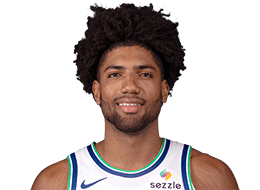
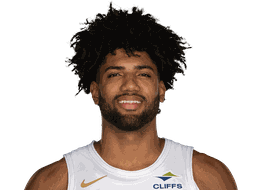
Norchad Omier: restore the Cavs headshot and use it everywhere (player page, depth chart, game cards, search); the data job's retry no longer overwrites newer photos
Claude-Session: https://claude.ai/code/session_01Uep7ns5T3up5s8U8S8Tshg

Changed region(s): [[0.0923, 0.0, 0.9231, 1.0], [0.6154, 0.2368, 0.6462, 0.2632]]

diff --git a/index.html b/index.html
@@ -2,7 +2,8 @@
 <html lang="en">
 <head>
 <meta charset="utf-8">
-<script>/* Nov 22 (Luka): if a page breaks in a visitor's browser, tell us (the Worker sends one phone alert per error per day) */
+<script>/* Nov 23 (Luka): players whose NBA.com photo is out of date use the site's own copy everywhere (Omier's Cavs headshot) */window.nbaHS=function(id,big){return ['1641807'].indexOf(String(id))>=0?'/img/h/'+id+'.png':'https://cdn.nba.com/headshots/nba/latest/'+(big?'1040x760':'260x190')+'/'+id+'.png'};
+/* Nov 22 (Luka): if a page breaks in a visitor's browser, tell us (the Worker sends one phone alert per error per day) */
 (function(){if(!/(^|\.)cavsdatabase\.com$/.test(location.hostname))return;var n=0;function send(m,w){try{if(n++>2||!m)return;var b=JSON.stringify({m:String(m).slice(0,300),w:String(w||'').slice(0,300),p:location.href.slice(0,300),ua:navigator.userAgent.slice(0,200)});if(navigator.sendBeacon)navigator.sendBeacon('/err',new Blob([b],{type:'application/json'}));else fetch('/err',{method:'POST',body:b,keepalive:true})}catch(e){}}
 addEventListener('error',function(e){if(!e||!e.message)return;var f=e.filename||'';if(f&&!/cavsdatabase\.com/.test(f))return;send(e.message,f.replace(/^https?:\/\/[^/]+/,'')+':'+(e.lineno||0)+':'+(e.colno||0))});
 addEventListener('unhandledrejection',function(e){var r=e&&e.reason;if(!r||!r.stack||!/cavsdatabase\.com/.test(r.stack))return;send((r.name||'Error')+': '+(r.message||r),String(r.stack).split('\n')[1]||'')})
@@ -3349,7 +3350,7 @@ onView('schedule',()=>{while(mk<SCHED_MARKS.length){tb.appendChild(markRow(short
 
 /* staff page — [name, title, first season] */
 /* staff — [name, title, first season in current role, NBA.com headshot id or image url] */
-const HS=id=>typeof id==='number'?'https://cdn.nba.com/headshots/nba/latest/260x190/'+id+'.png':id;
+const HS=id=>typeof id==='number'?nbaHS(id):id;
 const STAFF=[
   ['Ownership & leadership',[['Dan Gilbert','Chairman','2004–05','/img/s/dan-gilbert.jpg'],['Nic Barlage','CEO, Cavaliers and Rock Entertainment Group','2021–22','https://cdn.nba.com/teams/uploads/sites/1610612739/2024/11/nic-barlage-headshot_500x500-1.jpg'],['Nate Forbes','Vice Chairman','2004–05','/img/s/nate-forbes.jpg'],['Jeff Cohen','Minority Owner','2004–05','/img/s/jeff-cohen.jpg'],['Grant Gilbert','VP, Basketball and Business Operations · Alternate Governor','2024–25','/img/s/grant-gilbert.jpg']]],
   ['Front office',[['Brandon Weems','General Manager','2026–27','/img/s/brandon-weems.jpg'],['Jon Nichols','Associate General Manager','2026–27','/img/s/jon-nichols.jpg'],['Brendon Yu','Assistant General Manager','2026–27','/img/s/brendon-yu.jpg'],['José Calderón','Assistant General Manager','2026–27','/img/s/jose-calderon.jpg'],['Jason Hillman','VP, Basketball Operations / Team Counsel','2021–22','/img/s/jason-hillman.jpg'],['Dashiell Flynn','Chief Technology Officer, Basketball Operations','2026–27','/img/s/dashiell-flynn.jpg'],['Max Weisberg','Sr. Director of Basketball Strategy / Assistant GM, Charge','2025–26','/img/s/max-weisberg.jpg'],['Rishi Chandran','Basketball Operations Analyst','2024–25','/img/s/rishi-chandran.jpg'],['Corey Jones','Research and Development','2026–27','/img/s/corey-jones.jpg'],['Mark Cashman','Director of Team Operations','2011–12'],['Zydrunas Ilgauskas','Special Assistant to the GM','2013–14','/img/s/zydrunas-ilgauskas.jpg'],['Anderson Varejão','Player Development Consultant and Global Ambassador','2022–23','/img/s/anderson-varejao.jpg']]],
@@ -3585,7 +3586,7 @@ function fitLogo(img){/* Nov 4: sizing now comes from the site-wide logo scale (
     /* box score = our live game page for that game (ESPN game id looked up by date) */
     {const bl=c.querySelector('.gdm-k a');bl.removeAttribute('target');bl.removeAttribute('rel');bl.classList.add('gdm-bsl');cavsLive(g[0]).then(L=>{if(L&&L.id)c.querySelectorAll('a.gdm-bsl').forEach(x=>x.href='/live.html?g='+L.id)}).catch(()=>{})}
     const sb=el('div','gdm-sb');sb.append(el('span','tm c','CAVS'),el('span','gdm-tl',String(cs)),el('span','gdm-dash'),el('span','gdm-tl o',String(os)),el('span','tm',g[1]),el('span','gdm-wl'+(cs>os?'':' l'),cs>os?'WIN':'LOSS'));const row=el('div','gdm-frow');row.appendChild(sb);c.appendChild(row);
-    if(top){const [nm,ln]=top.split(': ');const p=PLAYERS.find(x=>x[1]===nm);const t=el('div','gdm-top');if(p){const hs=el('div','gdm-hs');const im=el('img');im.src='https://cdn.nba.com/headshots/nba/latest/260x190/'+p[12]+'.png';im.alt='';im.onerror=()=>im.remove();hs.appendChild(im);t.appendChild(hs)}const tx=el('div');const lnE=el('div','gdm-ln');lnE.innerHTML=(ln||'').toUpperCase().replace(/, /g,' · ').replace(/[&<>]/g,c=>({'&':'&amp;','<':'&lt;','>':'&gt;'})[c]).replace(/(\d+(?:-\d+)?)\s+([A-Z%]+)/g,'<b>$1</b> $2');tx.append(el('small',null,'TOP LINE'),el('b',null,nm),lnE);t.appendChild(tx);row.appendChild(t)}
+    if(top){const [nm,ln]=top.split(': ');const p=PLAYERS.find(x=>x[1]===nm);const t=el('div','gdm-top');if(p){const hs=el('div','gdm-hs');const im=el('img');im.src=nbaHS(p[12]);im.alt='';im.onerror=()=>im.remove();hs.appendChild(im);t.appendChild(hs)}const tx=el('div');const lnE=el('div','gdm-ln');lnE.innerHTML=(ln||'').toUpperCase().replace(/, /g,' · ').replace(/[&<>]/g,c=>({'&':'&amp;','<':'&lt;','>':'&gt;'})[c]).replace(/(\d+(?:-\d+)?)\s+([A-Z%]+)/g,'<b>$1</b> $2');tx.append(el('small',null,'TOP LINE'),el('b',null,nm),lnE);t.appendChild(tx);row.appendChild(t)}
     const lk=el('div','gdm-links');const rc=RC&&RC.items&&RC.items.find(x=>/recap/i.test(x.title)&&recapAfter(x,g));if(rc){const a=el('a',null,'Game analysis →');a.href=safeUrl(rc.link);a.target='_blank';a.rel='noopener';lk.appendChild(a);
       /* desktop: the recap link sits in the header next to Box score, so the card has no extra row */
       const hk=c.querySelector('.gdm-k a');if(hk){const a2=a.cloneNode(true);a2.classList.add('gdm-rcf');const w=el('span','gdm-kl');hk.before(w);w.append(a2,hk);lk.classList.add('gdm-lk-sm');
@@ -3856,7 +3857,7 @@ onView('roster-tree',()=>{setTimeout(function(){const lanes=document.getElementB
   const bar=document.getElementById('rt-bar'),leg=document.getElementById('rt-leg');G.forEach(([l,c,ps])=>{if(!ps.length)return;const i=el('i');i.style.cssText='flex:'+ps.length+';background:'+c;i.title=l+': '+ps.length;bar.appendChild(i);const s=el('span',null,l+' '+ps.length);s.style.setProperty('--c',c);leg.appendChild(s)});
   const inTree=n=>TREES.find(t=>t[2].includes(n));
   [[0],[1],[2],[3,4]].forEach(ix=>{const L=el('div','rt-lane');const ps=ix.flatMap(i=>G[i][2]);const h=el('h3');h.append(ix.map(i=>G[i][0]).join(' & '),el('i',null,String(ps.length)));L.appendChild(h);
-    ps.forEach(([n,id,sub])=>{const r=el('div','rt-p');const av=el('span','rt-av');const im=el('img');im.src='https://cdn.nba.com/headshots/nba/latest/260x190/'+id+'.png';im.alt='';im.loading='lazy';im.onerror=()=>{im.remove();av.textContent=n.split(' ').map(w=>w[0]).join('').slice(0,2)};av.appendChild(im);
+    ps.forEach(([n,id,sub])=>{const r=el('div','rt-p');const av=el('span','rt-av');const im=el('img');im.src=nbaHS(id);im.alt='';im.loading='lazy';im.onerror=()=>{im.remove();av.textContent=n.split(' ').map(w=>w[0]).join('').slice(0,2)};av.appendChild(im);
       const t=el('div');const b=el('b');{const a=el('a','rt-nm',n);a.href='/players/'+slug(n);a.dataset.go='players/'+slug(n);b.appendChild(a)}t.append(b,el('small',null,sub));r.append(av,t);const tr=inTree(n);if(tr){const a=el('button','rt-tl','tree ↓');a.type='button';a.onclick=()=>{pick(tr[0]);document.getElementById('rt-trees').scrollIntoView({behavior:'smooth',block:'start'})};b.appendChild(a)}L.appendChild(r)});lanes.appendChild(L)});
   const sw=document.getElementById('rt-sw'),rows=document.getElementById('rt-rows'),ln=document.getElementById('rt-ln'),foot=document.getElementById('rt-foot');let cur=null;
   TREES.forEach(([k,l])=>{const b=el('button',null,l);b.type='button';b.setAttribute('role','tab');b.dataset.k=k;b.onclick=()=>pick(k);sw.appendChild(b)});
@@ -3936,7 +3937,7 @@ window.renderGame=function(sl){if(SCHEDULE.findIndex(g=>gslug(g)===sl)<0)return 
     fJ('/box.json').then(x=>x.ok?x.json():null).catch(()=>null).then(B=>{const b=B&&B[g[0]];if(!b)return;
       if(b.qs&&b.qs.cle&&b.qs.cle.length>=4){const lc=card('By quarter');lc.classList.add('o-q');const tb=el('table','gp-ls');const n=b.qs.cle.length;const lab=k=>k<4?String(k+1):(n>5?'OT'+(k-3):'OT');
         tb.innerHTML='<thead><tr><th></th>'+b.qs.cle.map((_,k)=>'<th>'+lab(k)+'</th>').join('')+'<th>F</th></tr></thead>';const bd=el('tbody');[['CLE',b.qs.cle,cs,1],[o,b.qs.opp,os,0]].forEach(([ab,q,t,me])=>{const tr=el('tr',me?'me':null);tr.appendChild(el('td',null,ab));q.forEach(v=>tr.appendChild(el('td',null,String(v))));tr.appendChild(el('td','f',String(t)));bd.appendChild(tr)});tb.appendChild(bd);lc.appendChild(tb);L.insertBefore(lc,tl)}
-      if(b.top){const [nm,ln]=b.top.split(': ');const p=PLAYERS.find(x=>x[1]===nm);const t=el('div','gp-top');if(p){const hs=el('div','gp-hs');const im=el('img');im.src='https://cdn.nba.com/headshots/nba/latest/260x190/'+p[12]+'.png';im.alt='';im.onerror=()=>im.remove();hs.appendChild(im);t.appendChild(hs)}const tx=el('div');tx.append(el('small',null,nm.toUpperCase()),el('b',null,(ln||'').toUpperCase().replace(/, /g,' · ')));t.appendChild(tx);tl.appendChild(t);tl.hidden=false}
+      if(b.top){const [nm,ln]=b.top.split(': ');const p=PLAYERS.find(x=>x[1]===nm);const t=el('div','gp-top');if(p){const hs=el('div','gp-hs');const im=el('img');im.src=nbaHS(p[12]);im.alt='';im.onerror=()=>im.remove();hs.appendChild(im);t.appendChild(hs)}const tx=el('div');tx.append(el('small',null,nm.toUpperCase()),el('b',null,(ln||'').toUpperCase().replace(/, /g,' · ')));t.appendChild(tx);tl.appendChild(t);tl.hidden=false}
       arcBox().then(ok=>{if(!ok)oldBox(b)})});
     /* box score inlaid from the live game archive (live-archive/<season>/<id>.json): both teams, scrolls sideways on phones, link to the full live box score */
     const arcBox=async()=>{try{const y=+g[0].slice(0,4),se=+g[0].slice(5,7)>=8?y+'-'+String(y+1).slice(2):(y-1)+'-'+String(y).slice(2);
@@ -4705,7 +4706,7 @@ const DEPTH=[['PG',['James Harden','Meleek Thomas','Craig Porter Jr.'],null],['S
 const DEPTH_TIERS=[['Starters','The opening five',['James Harden','Donovan Mitchell','Peyton Watson','Evan Mobley','Jarrett Allen']],['Rotation','Nightly minutes off the bench',['Sam Merrill','Jaylon Tyson','Meleek Thomas','Mario Hezonja','Tyrese Proctor']],['Depth','Spot minutes, matchups, injuries',['Thomas Bryant',"Nae'Qwan Tomlin",'Craig Porter Jr.','Norchad Omier']],['Developmental','Young players and two-ways; time with the Charge',['Khalifa Diop','Zack Austin','Ernest Udeh Jr.']]];
 const DND_ON=true;
 function buildDepth(){
-  const P=n=>PLAYERS.find(p=>p[1]===n);const HSU=id=>'https://cdn.nba.com/headshots/nba/latest/260x190/'+id+'.png';
+  const P=n=>PLAYERS.find(p=>p[1]===n);const HSU=id=>nbaHS(id);
   const lastN=n=>n.split(' ').filter(w=>!/^(Jr\.|III|II)$/.test(w)).pop();
   const face=(p,cls)=>'<span class="'+cls+'"><img src="'+HSU(p[12])+'" alt="" loading="lazy" onerror="this.remove()"></span>';
   const link=(p,inner)=>PP_ON?'<a href="/players/'+slug(p[1])+'" data-go="players/'+slug(p[1])+'">'+inner+'</a>':'<a href="'+profileUrl(p[1],p[12])+'" target="_blank" rel="noopener">'+inner+'</a>';
@@ -4789,7 +4790,7 @@ const COMBINE={
     ps.forEach(([no,n,pos,ht,wt,b,age,exp,sch,cty,dr,stt,pid])=>{
       const tr=el('tr');tr.id='r-'+slug(n);
       const nm=el('td','pl');const pa=el('a','plink',n);if(PP_ON){pa.href='/players/'+slug(n);pa.dataset.go='players/'+slug(n);pa.title=n+': full player page'}else{pa.href=profileUrl(n,pid);pa.target='_blank';pa.rel='noopener';pa.title=RAPM[n]?'RAPM profile on nbarapm':'Profile on NBA.com'}nm.appendChild(pa);if(PRON[n]){const sb=el('button','say');sb.type='button';sb.title='Hear '+n+' say his name'+(PRON_TX[n]?' ('+PRON_TX[n]+')':'');sb.setAttribute('aria-label',sb.title);sb.innerHTML='<svg viewBox="0 0 24 24" aria-hidden="true"><path d="M4 9v6h4l5 4V5L8 9z" fill="currentColor"/><path d="M16 8.5a5 5 0 0 1 0 7M18.5 6a8.5 8.5 0 0 1 0 12" fill="none" stroke="currentColor" stroke-width="2" stroke-linecap="round"/></svg>';sb.onclick=e=>{e.preventDefault();e.stopPropagation();const au=window._say||(window._say=new Audio());au.src='https://cdn.nba.com/logos/nba/playername-audio/'+(/^\d{4}-\d\d\//.test(PRON[n])?'':'2025-26/')+PRON[n]+'.wav';/* Nov 8: clips carry their season once the daily updater moves them to a newer guide */sb.classList.add('on');au.onended=au.onerror=()=>sb.classList.remove('on');au.play().catch(()=>sb.classList.remove('on'))};nm.appendChild(sb)}if(stt){nm.appendChild(el('span','tag',stt))}
-      const hs=el('img','hs');hs.src='https://cdn.nba.com/headshots/nba/latest/260x190/'+pid+'.png';hs.alt='';hs.loading='lazy';hs.onerror=()=>hs.remove();nm.prepend(hs);{const sm=el('small','pos',pos+' · '+cty);nm.appendChild(sm)}
+      const hs=el('img','hs');hs.src=nbaHS(pid);hs.alt='';hs.loading='lazy';hs.onerror=()=>hs.remove();nm.prepend(hs);{const sm=el('small','pos',pos+' · '+cty);nm.appendChild(sm)}
       const two=(a,b2)=>{const td=el('td','m two');td.append(a);td.appendChild(el('small',null,b2));return td};
       const L=(td,l)=>{td.dataset.l=l;return td};
       tr.append(el('td','r num',no||'—'),nm,L(two(ht==='—'?'—':ht.replace('-','′')+'″',wt?wt+' lb':'—'),'Height'),L(two(String(age),born(b)),'Age'),L(el('td','c m',exp),'Exp'),L((()=>{const td=el('td','sch');const cc=COLLEGE_BBR[sch];if(cc){const a=el('a','dlink',sch);a.href='https://www.basketball-reference.com/friv/colleges.fcgi?college='+cc;a.target='_blank';a.rel='noopener';a.title='Every NBA player from '+sch+' (Basketball Reference)';td.appendChild(a)}else td.textContent=sch;return td})(),'College / last'),
@@ -5052,7 +5053,7 @@ window.renderPlayer=function(s){
   if(EXT[n]===0&&R)pill('Extension','eligible now','warn');
   {const te=TRADE_ELIG[n];if(te&&new Date(te[0]+'T23:59:59')>new Date())pill('Trade eligible',new Date(te[0]+'T12:00:00').toLocaleDateString('en-US',{month:'short',day:'numeric'}),'warn')}
   bt.appendChild(pills);{const so=socialLinks(n);if(so){so.classList.add('ppx-soc');bt.appendChild(so)}}band.appendChild(bt);
-  const ph=el('div','ppx-ph');const im=el('img');im.fetchPriority='high';im.src='https://cdn.nba.com/headshots/nba/latest/1040x760/'+pid+'.png';im.alt='';im.loading='eager';im.onerror=()=>{if(!im.dataset.local){im.dataset.local=1;im.src='/img/h/'+pid+'.png';return}im.remove();ph.textContent=n.split(' ').map(x=>x[0]).join('')};ph.appendChild(im);band.appendChild(ph);
+  const ph=el('div','ppx-ph');const im=el('img');im.fetchPriority='high';im.src=nbaHS(pid,1);im.alt='';im.loading='eager';im.onerror=()=>{if(!im.dataset.local){im.dataset.local=1;im.src='/img/h/'+pid+'.png';return}im.remove();ph.textContent=n.split(' ').map(x=>x[0]).join('')};ph.appendChild(im);band.appendChild(ph);
   root.appendChild(band);
   // elsewhere on the site
   {const lk=el('div','ppx-links');lk.appendChild(el('span','ppx-lkh','Also on cavs_db'));
